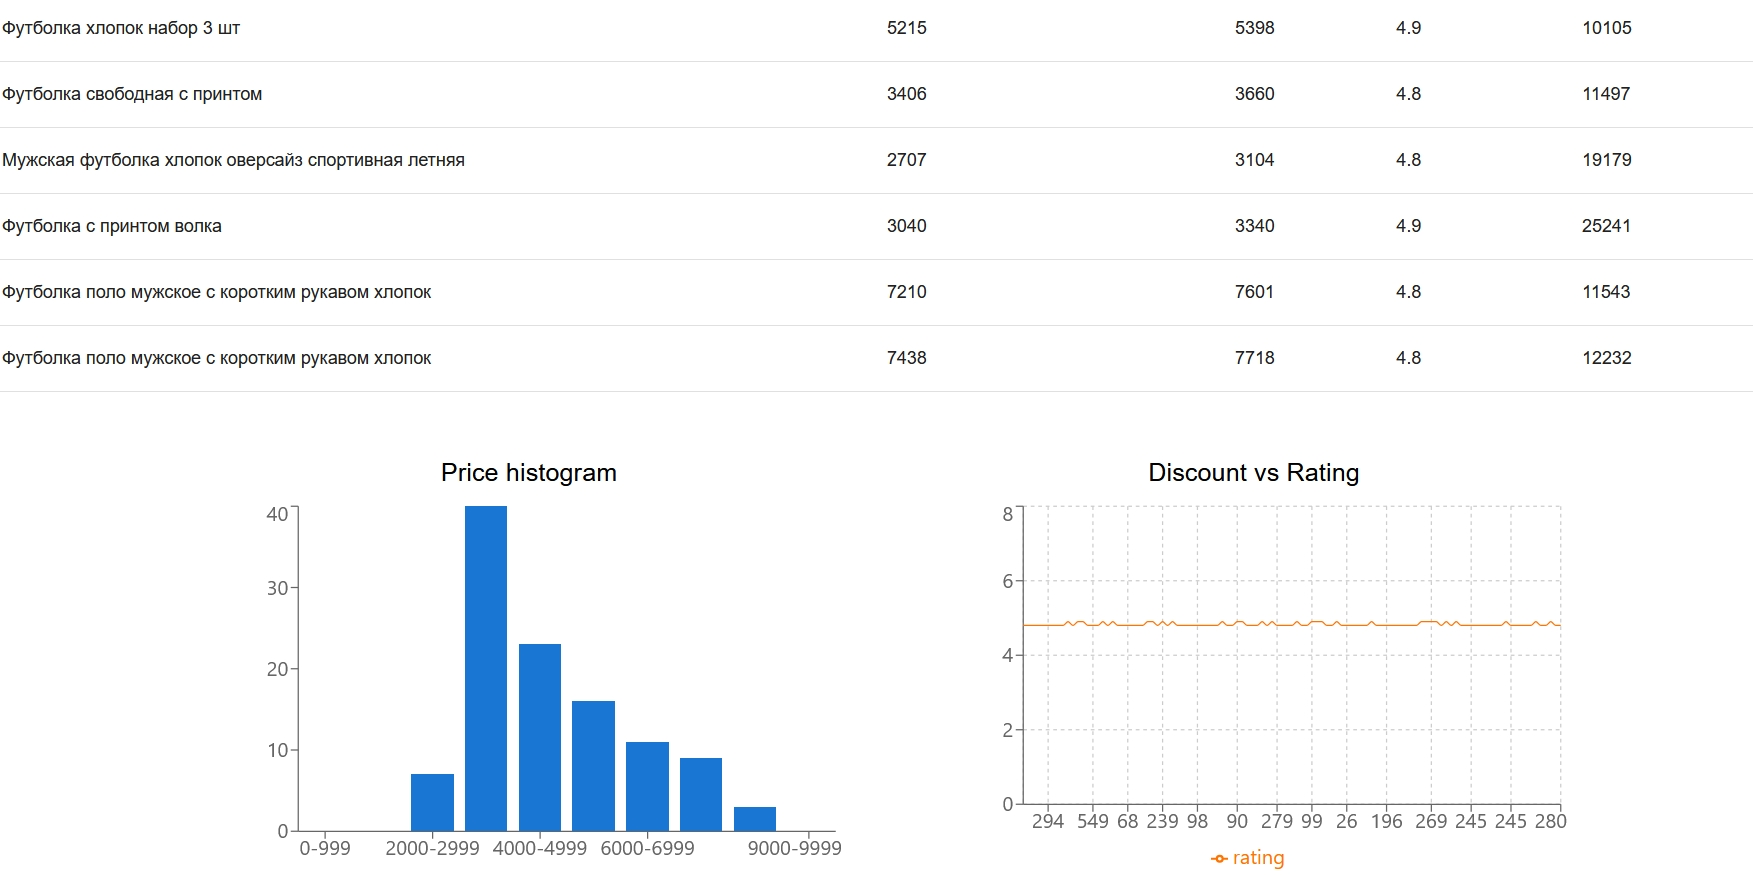
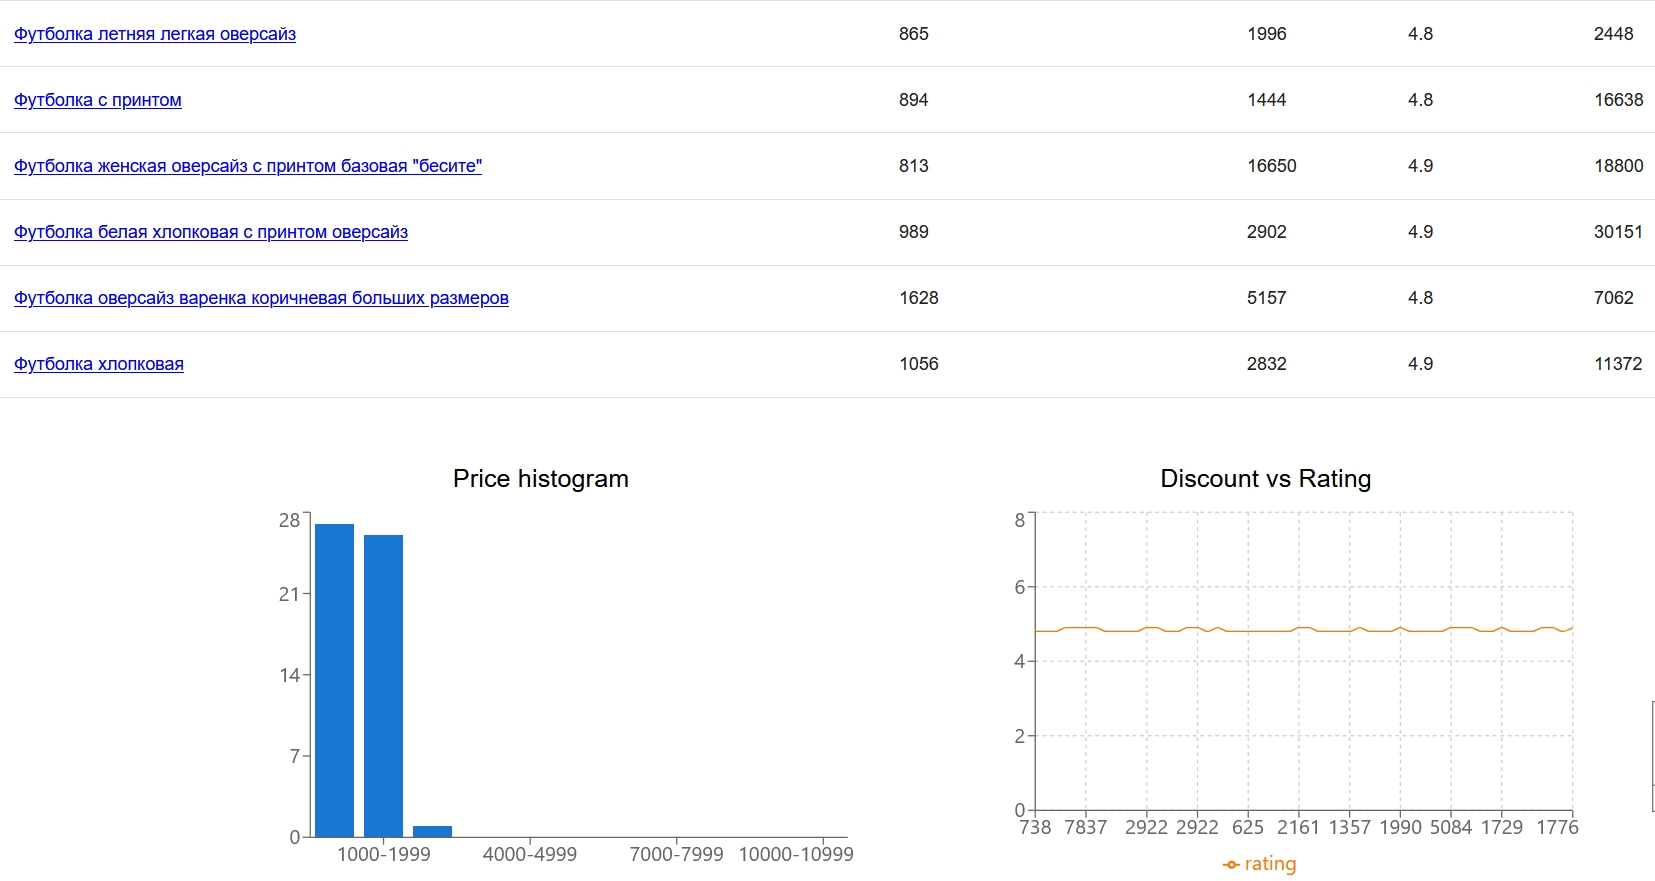
Updated App.js

diff --git a/frontend/src/App.js b/frontend/src/App.js
@@ -211,7 +211,7 @@ function App() {
         <TableBody>
           {products.map((p) => (
             <TableRow key={p.id}>
-              <TableCell>{p.name}</TableCell>
+              <TableCell> <a href={`https://www.wildberries.ru/catalog/${p.id_wb}/detail.aspx/`}>{p.name}</a></TableCell>
               <TableCell>{p.price_with_discount}</TableCell>
               <TableCell>{p.price_basic}</TableCell>
               <TableCell>{p.rating}</TableCell>
